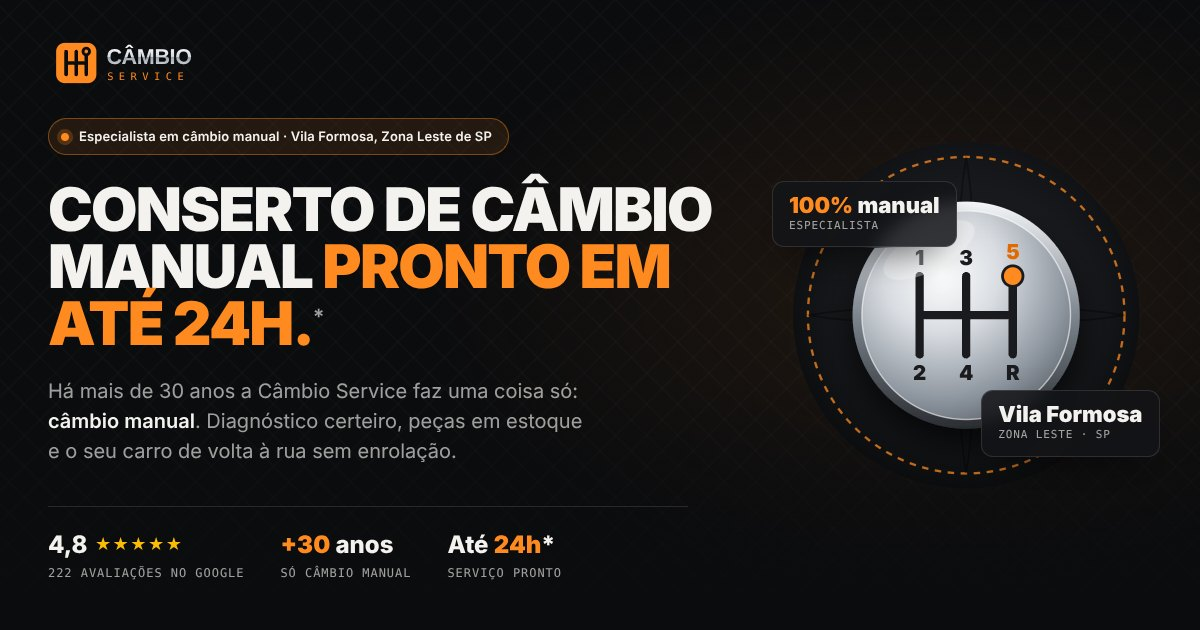
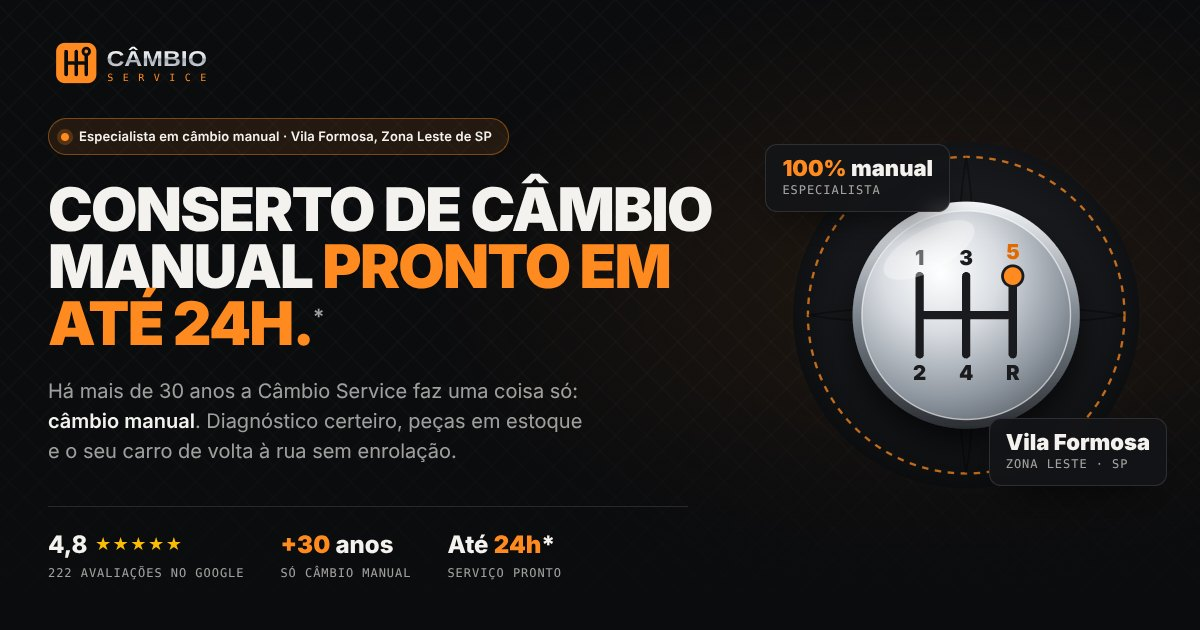
Câmbio Service: correções da auditoria mobile e desktop
- Logo: largura do texto fixa no SVG (CÂMBIO e SERVICE cortados com a fonte real)
- Sem rolagem lateral de 320 a 414 px (título de avaliações e FAQ)
- Título do resumo não estoura mais a coluna no desktop
- Links dos cards com área de toque de 44 px
- Selos da arte do hero sem cobrir a grade; textos mínimos de 12 px
- E-mail quebra linha em telas estreitas; títulos de seção um pouco menores

Claude-Session: https://claude.ai/code/session_01X36YZ1AwxPhqunPH1Jujfz

Changed region(s): [[0.6475, 0.2413, 0.8017, 0.4524], [0.8017, 0.6032, 0.9558, 0.754], [0.0925, 0.0603, 0.185, 0.1508]]

diff --git a/cambio-service/index.html b/cambio-service/index.html
@@ -162,7 +162,7 @@
     --max: 1240px;
   }
   * { box-sizing: border-box; margin: 0; padding: 0; }
-  html { background: var(--black); }
+  html { background: var(--black); overflow-x: clip; }
   body { background: var(--black); color: var(--ink); font-family: var(--sans); font-size: 16px; line-height: 1.5; -webkit-font-smoothing: antialiased; overflow-x: hidden; }
   img { display: block; max-width: 100%; }
   a { color: inherit; text-decoration: none; }
@@ -197,7 +197,7 @@
   .topbar .wrap { display: flex; align-items: center; justify-content: space-between; height: 68px; gap: 20px; }
   .logo { display: flex; align-items: center; gap: 12px; }
   .logo svg { height: 40px; width: auto; aspect-ratio: 214 / 64; overflow: visible; }
-  .logo small { font-family: var(--mono); font-weight: 400; font-size: 10px; letter-spacing: .1em; color: var(--muted); padding-left: 12px; border-left: 1px solid var(--line); }
+  .logo small { font-family: var(--mono); font-weight: 400; font-size: 11px; letter-spacing: .1em; color: var(--muted); padding-left: 12px; border-left: 1px solid var(--line); }
   .menu { display: flex; gap: 28px; font-size: 14px; color: var(--muted); }
   .menu a { position: relative; padding: 6px 0; transition: color .3s; }
   .menu a:hover, .menu a.is-active { color: var(--ink); }
@@ -248,7 +248,7 @@
     font-size: clamp(34px, 4.6vw, 64px); line-height: .95; letter-spacing: -.03em;
   }
   .hero h1 em { font-style: normal; color: var(--amber); }
-  .hero h1 sup { font-size: .35em; vertical-align: super; color: var(--muted); font-weight: 600; }
+  .hero h1 sup { font-size: max(.35em, 13px); vertical-align: super; color: var(--muted); font-weight: 600; }
   .hero__lead { margin-top: 24px; max-width: 540px; font-size: 18px; color: var(--muted); }
   .hero__lead strong { color: var(--ink); font-weight: 600; }
   .hero__actions { display: flex; gap: 12px; margin-top: 36px; flex-wrap: wrap; }
@@ -277,9 +277,9 @@
   }
   .knob-chip strong { font-size: 22px; font-weight: 900; font-stretch: 115%; line-height: 1; }
   .knob-chip strong b { color: var(--amber); }
-  .knob-chip span { color: var(--muted); font-size: 11px; }
-  .knob-chip--a { left: -2%; top: 14%; }
-  .knob-chip--b { right: -2%; bottom: 12%; }
+  .knob-chip span { color: var(--muted); font-size: 12px; }
+  .knob-chip--a { left: -4%; top: 4%; }
+  .knob-chip--b { right: -4%; bottom: 4%; }
 
   .tilt { transform-style: preserve-3d; will-change: transform; }
 
@@ -316,7 +316,7 @@
   .sec__head { display: flex; justify-content: space-between; align-items: end; gap: 32px; margin-bottom: 48px; flex-wrap: wrap; }
   .sec__head .label { color: var(--amber); margin-bottom: 14px; display: block; }
   .sec--paper .sec__head .label { color: var(--amber-ink); }
-  .sec h2 { font-weight: 900; font-stretch: 118%; text-transform: uppercase; font-size: clamp(32px, 4.6vw, 60px); line-height: .95; letter-spacing: -.03em; max-width: 780px; }
+  .sec h2 { font-weight: 900; font-stretch: 118%; text-transform: uppercase; font-size: clamp(32px, 4vw, 54px); line-height: .95; letter-spacing: -.03em; max-width: 780px; }
   .sec h2 em { font-style: normal; color: var(--amber); }
   .sec--paper h2 em { color: var(--amber-deep); }
   .sec__head p { max-width: 400px; color: var(--muted); }
@@ -346,7 +346,7 @@
   .service svg { width: 40px; height: 40px; color: var(--amber-deep); }
   .service h3 { font-size: 22px; font-weight: 800; font-stretch: 110%; letter-spacing: -.01em; line-height: 1.1; }
   .service p { color: var(--muted-dark); font-size: 15px; flex: 1; }
-  .service a { display: inline-flex; align-items: center; gap: 8px; font-weight: 700; font-size: 14px; color: var(--ink-dark); margin-top: 8px; }
+  .service a { display: inline-flex; align-items: center; gap: 8px; min-height: 44px; font-weight: 700; font-size: 15px; color: var(--ink-dark); margin-top: 0; }
   .service a span { transition: transform .2s; }
   .service a:hover span { transform: translateX(4px); }
   .service a:hover { color: var(--amber-ink); }
@@ -365,7 +365,7 @@
   .symptom h3 { font-size: 20px; font-weight: 800; font-stretch: 108%; line-height: 1.15; }
   .symptom p { color: var(--muted); font-size: 15px; }
   .symptom p b { color: var(--ink); font-weight: 600; }
-  .symptom a { margin-top: auto; padding-top: 8px; display: inline-flex; align-items: center; gap: 8px; font-weight: 700; font-size: 14px; color: var(--amber); }
+  .symptom a { margin-top: auto; display: inline-flex; align-items: center; gap: 8px; min-height: 44px; font-weight: 700; font-size: 15px; color: var(--amber); }
   .symptom a span { transition: transform .2s; }
   .symptom a:hover span { transform: translateX(4px); }
   .symptoms__note { margin-top: 20px; font-size: 13px; color: var(--muted); }
@@ -441,7 +441,8 @@
   .faq details { border-bottom: 1px solid var(--line); }
   .faq summary { list-style: none; cursor: pointer; display: flex; justify-content: space-between; gap: 20px; padding: 24px 0; font-size: 19px; font-weight: 700; }
   .faq summary::-webkit-details-marker { display: none; }
-  .faq summary::after { content: "+"; font-weight: 400; font-size: 26px; line-height: 1; color: var(--amber); transition: transform .2s; }
+  .faq summary span { flex: 1; min-width: 0; }
+  .faq summary::after { content: "+"; flex: none; width: 22px; text-align: center; font-weight: 400; font-size: 26px; line-height: 1; color: var(--amber); transition: transform .2s; }
   .faq details[open] summary::after { transform: rotate(45deg); }
   .faq details p { padding: 0 0 24px; color: var(--muted); max-width: 640px; }
 
@@ -451,7 +452,7 @@
   .visit__info dl { display: grid; grid-template-columns: repeat(2, minmax(0, 1fr)); gap: 20px; }
   .visit__info dl .full { grid-column: span 2; }
   .visit__info dt { color: var(--muted); margin-bottom: 4px; }
-  .visit__info dd { font-size: 17px; font-weight: 600; }
+  .visit__info dd { font-size: 17px; font-weight: 600; overflow-wrap: anywhere; }
   .visit__info dd a:hover { color: var(--amber); }
   .visit__actions { display: flex; gap: 10px; flex-wrap: wrap; margin-top: auto; }
   .visit iframe { width: 100%; height: 100%; min-height: 460px; border: 0; filter: grayscale(.35) contrast(1.05); }
@@ -506,9 +507,11 @@
     .topbar .wrap { height: 60px; }
     [id] { scroll-margin-top: 116px; }
     .hero .wrap { grid-template-columns: minmax(0, 1fr); }
-    .knob-art { max-width: 340px; justify-self: center; margin-top: 8px; }
-    .knob-chip--a { left: 0; }
-    .knob-chip--b { right: 0; }
+    .knob-art { max-width: 300px; justify-self: center; margin-top: 8px; }
+    .knob-chip--a { left: -2%; top: 0; }
+    .knob-chip--b { right: -2%; bottom: 0; }
+    .knob-chip { padding: 9px 12px; }
+    .knob-chip strong { font-size: 17px; }
     .resumo, .flow, .areas, .faq, .visit, .reviews { grid-template-columns: minmax(0, 1fr); }
     .score { position: static; }
     .resumo, .areas { gap: 32px; }
@@ -524,6 +527,8 @@
     .visit iframe { min-height: 320px; }
   }
   @media (max-width: 620px) {
+    .sec h2 { font-size: min(32px, 8.4vw); }
+    .hero h1 { font-size: min(34px, 9.6vw); }
     .logo small { display: none; }
     .logo svg { height: 34px; }
     .topbar .btn span { display: none; }
@@ -567,8 +572,8 @@
     <rect x="0" y="4" width="56" height="56" rx="12" fill="#ff8a1f"/>
     <path d="M14 16v32M28 16v32M42 16v32M14 32h28" fill="none" stroke="#0b0c0e" stroke-width="5" stroke-linecap="round"/>
     <circle cx="42" cy="16" r="6.5" fill="#0b0c0e"/><circle cx="42" cy="16" r="2.4" fill="#ff8a1f"/>
-    <text x="70" y="34" font-family="Archivo, sans-serif" font-weight="900" font-size="30" font-stretch="125%" letter-spacing="-.5" fill="url(#lgSteel)">CÂMBIO</text>
-    <text x="71" y="56" font-family="IBM Plex Mono, monospace" font-weight="500" font-size="14.5" letter-spacing="7.6" fill="#ff8a1f">SERVICE</text>
+    <text x="70" y="36" font-family="Archivo, sans-serif" font-weight="900" font-size="30" textLength="140" lengthAdjust="spacingAndGlyphs" fill="url(#lgSteel)">CÂMBIO</text>
+    <text x="71" y="57" font-family="IBM Plex Mono, monospace" font-weight="500" font-size="14" textLength="138" lengthAdjust="spacing" fill="#ff8a1f">SERVICE</text>
   </symbol>
   <symbol id="wa" viewBox="0 0 24 24"><path fill="currentColor" d="M17.47 14.38c-.3-.15-1.75-.86-2.02-.96-.27-.1-.47-.15-.67.15-.2.3-.77.96-.94 1.16-.17.2-.35.22-.64.07-.3-.15-1.26-.46-2.39-1.48-.88-.79-1.48-1.76-1.65-2.06-.17-.3-.02-.46.13-.6.13-.14.3-.35.45-.52.15-.17.2-.3.3-.5.1-.2.05-.37-.03-.52-.07-.15-.67-1.6-.92-2.2-.24-.58-.49-.5-.67-.51h-.57c-.2 0-.52.07-.79.37-.27.3-1.04 1.02-1.04 2.48s1.07 2.88 1.21 3.08c.15.2 2.1 3.2 5.08 4.49.71.31 1.26.49 1.7.63.71.23 1.36.2 1.87.12.57-.09 1.75-.72 2-1.41.25-.69.25-1.29.17-1.41-.07-.12-.27-.2-.57-.35M12.05 21.5h-.01a9.4 9.4 0 0 1-4.8-1.31l-.34-.2-3.57.93.95-3.48-.22-.36a9.4 9.4 0 0 1-1.44-5.02c0-5.2 4.23-9.43 9.44-9.43 2.52 0 4.89.98 6.67 2.77a9.37 9.37 0 0 1 2.76 6.67c0 5.2-4.23 9.43-9.44 9.43m8.02-17.45A11.27 11.27 0 0 0 12.05.72C5.8.72.71 5.8.7 12.06c0 2 .52 3.95 1.52 5.67L.6 23.6l6-1.58a11.3 11.3 0 0 0 5.43 1.38h.01c6.25 0 11.34-5.09 11.35-11.34 0-3.03-1.18-5.88-3.32-8.02"/></symbol>
   <symbol id="g-logo" viewBox="0 0 48 48"><path fill="#FFC107" d="M43.6 20.5H42V20H24v8h11.3C33.7 32.7 29.2 36 24 36c-6.6 0-12-5.4-12-12s5.4-12 12-12c3.1 0 5.8 1.2 7.9 3.1l5.7-5.7C34 6.1 29.3 4 24 4 12.9 4 4 12.9 4 24s8.9 20 20 20 20-8.9 20-20c0-1.3-.1-2.4-.4-3.5z"/><path fill="#FF3D00" d="M6.3 14.7l6.6 4.8C14.7 15.1 19 12 24 12c3.1 0 5.8 1.2 7.9 3.1l5.7-5.7C34 6.1 29.3 4 24 4 16.3 4 9.7 8.3 6.3 14.7z"/><path fill="#4CAF50" d="M24 44c5.2 0 9.9-2 13.4-5.2l-6.2-5.2C29.2 35.1 26.7 36 24 36c-5.2 0-9.6-3.3-11.3-7.9l-6.5 5C9.5 39.6 16.2 44 24 44z"/><path fill="#1976D2" d="M43.6 20.5H42V20H24v8h11.3c-.8 2.2-2.2 4.2-4.1 5.6l6.2 5.2C37 39.2 44 34 44 24c0-1.3-.1-2.4-.4-3.5z"/></symbol>
@@ -685,7 +690,7 @@
     <div class="wrap resumo">
       <div class="reveal">
         <span class="label" style="color:var(--amber)">Câmbio Service em resumo</span>
-        <h2 id="resumo-titulo" style="margin:14px 0 28px">Especialista. <em>Só câmbio manual.</em></h2>
+        <h2 id="resumo-titulo" style="margin:14px 0 28px;font-size:clamp(30px,3.8vw,50px)">Especialista. <em>Só câmbio manual.</em></h2>
         <p class="resumo__texto">A <strong>Câmbio Service</strong> é uma oficina especializada em <strong>câmbio manual</strong> na Av. Henrique Morize, 74, Vila Formosa, Zona Leste de São Paulo. Com mais de 30 anos de mercado e nota 4,8 no Google (222 avaliações), atende toda a linha de carros leves e utilitários, mantém peças em estoque e entrega muitos serviços em até 24 horas.</p>
       </div>
       <dl class="facts reveal">
@@ -884,7 +889,7 @@
       <div class="sec__head reveal">
         <div>
           <span class="label">Avaliações no Google</span>
-          <h2>Quem leva o carro, <em>volta recomendando.</em></h2>
+          <h2>Quem leva o carro, <em>volta e recomenda.</em></h2>
         </div>
       </div>
       <div class="reviews">
@@ -959,39 +964,39 @@
       </div>
       <div class="reveal">
         <details open>
-          <summary>A Câmbio Service conserta câmbio automático?</summary>
+          <summary><span>A Câmbio Service conserta câmbio automático?</span></summary>
           <p>Não. A Câmbio Service trabalha exclusivamente com câmbio manual. Esse foco é o que permite ter peças em estoque e entregar muitos serviços em até 24 horas.</p>
         </details>
         <details>
-          <summary>Quanto tempo demora para consertar um câmbio manual?</summary>
+          <summary><span>Quanto tempo demora para consertar um câmbio manual?</span></summary>
           <p>Na Câmbio Service muitos serviços ficam prontos em até 24 horas, conforme o veículo e o tipo de reparo. O prazo exato é informado junto com o orçamento.</p>
         </details>
         <details>
-          <summary>Quais carros vocês atendem?</summary>
+          <summary><span>Quais carros vocês atendem?</span></summary>
           <p>Toda a linha de carros leves e utilitários com câmbio manual, de marcas como Volkswagen, Fiat, Chevrolet, Ford, Renault, Toyota, Honda, Hyundai, Peugeot, Citroën, Nissan e Jeep.</p>
         </details>
         <details>
-          <summary>Meu carro está com a marcha arranhando ou escapando. O que pode ser?</summary>
+          <summary><span>Meu carro está com a marcha arranhando ou escapando. O que pode ser?</span></summary>
           <p>Marcha arranhando costuma indicar desgaste dos anéis sincronizados ou problema na embreagem; marcha escapando pode vir de garfos, luvas de engate ou coxins gastos. Só o diagnóstico confirma a causa. Quanto antes o câmbio for avaliado, menor tende a ser o reparo.</p>
         </details>
         <details>
-          <summary>Como faço um orçamento?</summary>
+          <summary><span>Como faço um orçamento?</span></summary>
           <p>Pelo WhatsApp (11) 98402-5492 ou pelo telefone (11) 3794-3293. Informe o modelo, o ano do carro e o sintoma: barulho, marcha dura, arranhando ou escapando.</p>
         </details>
         <details>
-          <summary>A Câmbio Service é bem avaliada?</summary>
+          <summary><span>A Câmbio Service é bem avaliada?</span></summary>
           <p>Sim. A Câmbio Service tem nota 4,8 de 5 no Google, com 222 avaliações. Os clientes destacam o atendimento do Sr. Furica e da Bruna, o prazo cumprido e a explicação detalhada do problema e das opções de manutenção.</p>
         </details>
         <details>
-          <summary>Onde fica a Câmbio Service?</summary>
+          <summary><span>Onde fica a Câmbio Service?</span></summary>
           <p>Na Av. Henrique Morize, 74 — Vila Formosa, Zona Leste de São Paulo (SP), CEP 03367-000.</p>
         </details>
         <details>
-          <summary>Qual o horário de atendimento?</summary>
+          <summary><span>Qual o horário de atendimento?</span></summary>
           <p>De segunda a sexta, das 8h30 às 18h, e aos sábados, das 8h30 às 12h.</p>
         </details>
         <details>
-          <summary>Vocês atendem Tatuapé, Carrão e Aricanduva?</summary>
+          <summary><span>Vocês atendem Tatuapé, Carrão e Aricanduva?</span></summary>
           <p>Sim. A Câmbio Service, na Vila Formosa, atende motoristas do Tatuapé, Carrão, Aricanduva, Anália Franco, Água Rasa, Mooca, Penha, Vila Prudente, Sapopemba e de toda a cidade de São Paulo.</p>
         </details>
       </div>
